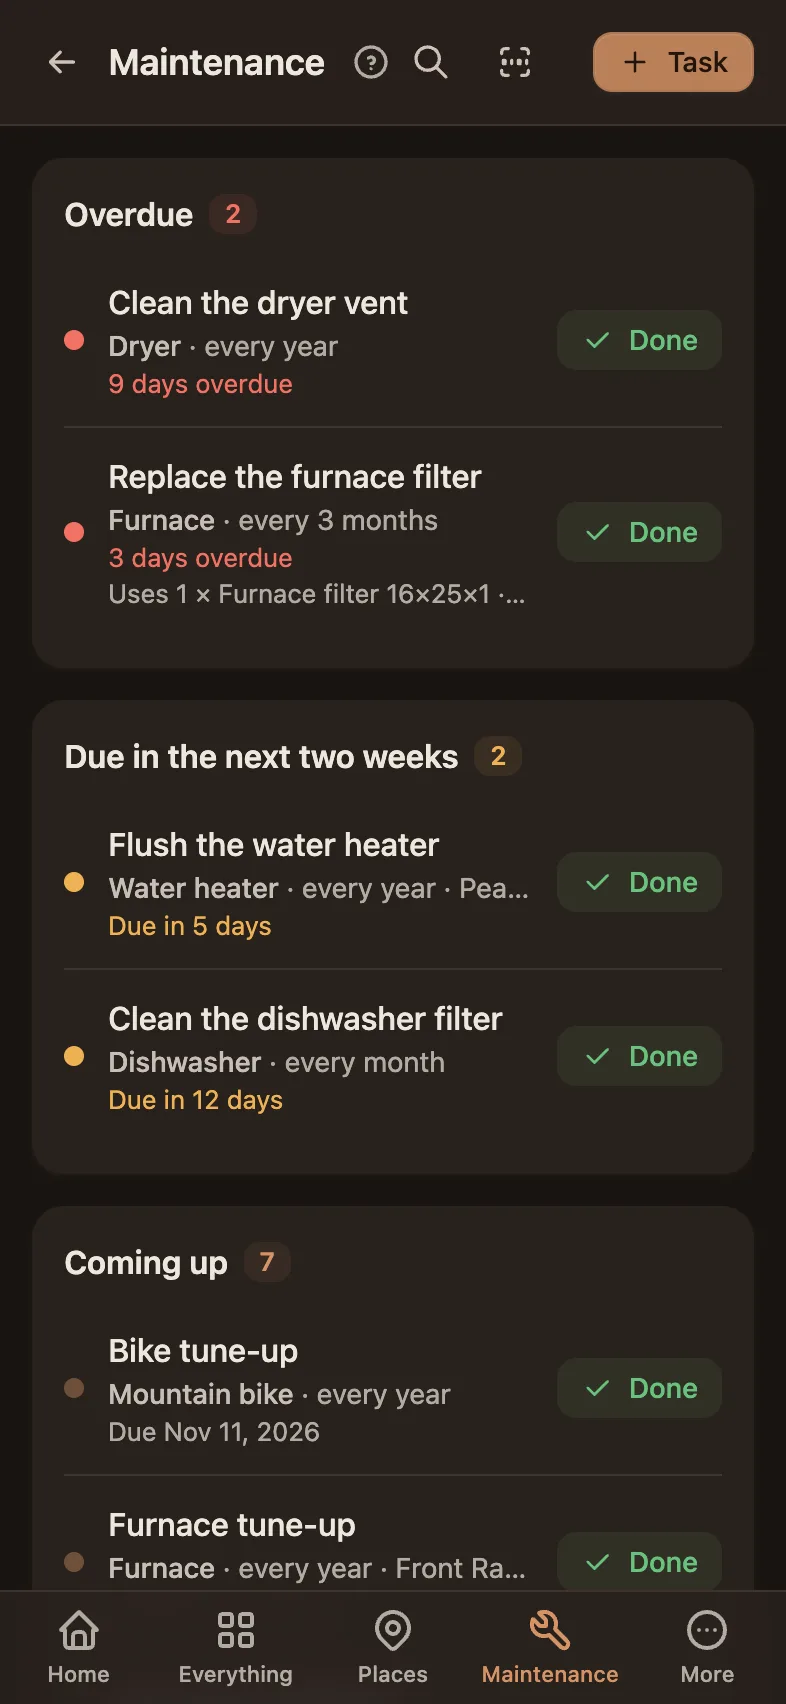
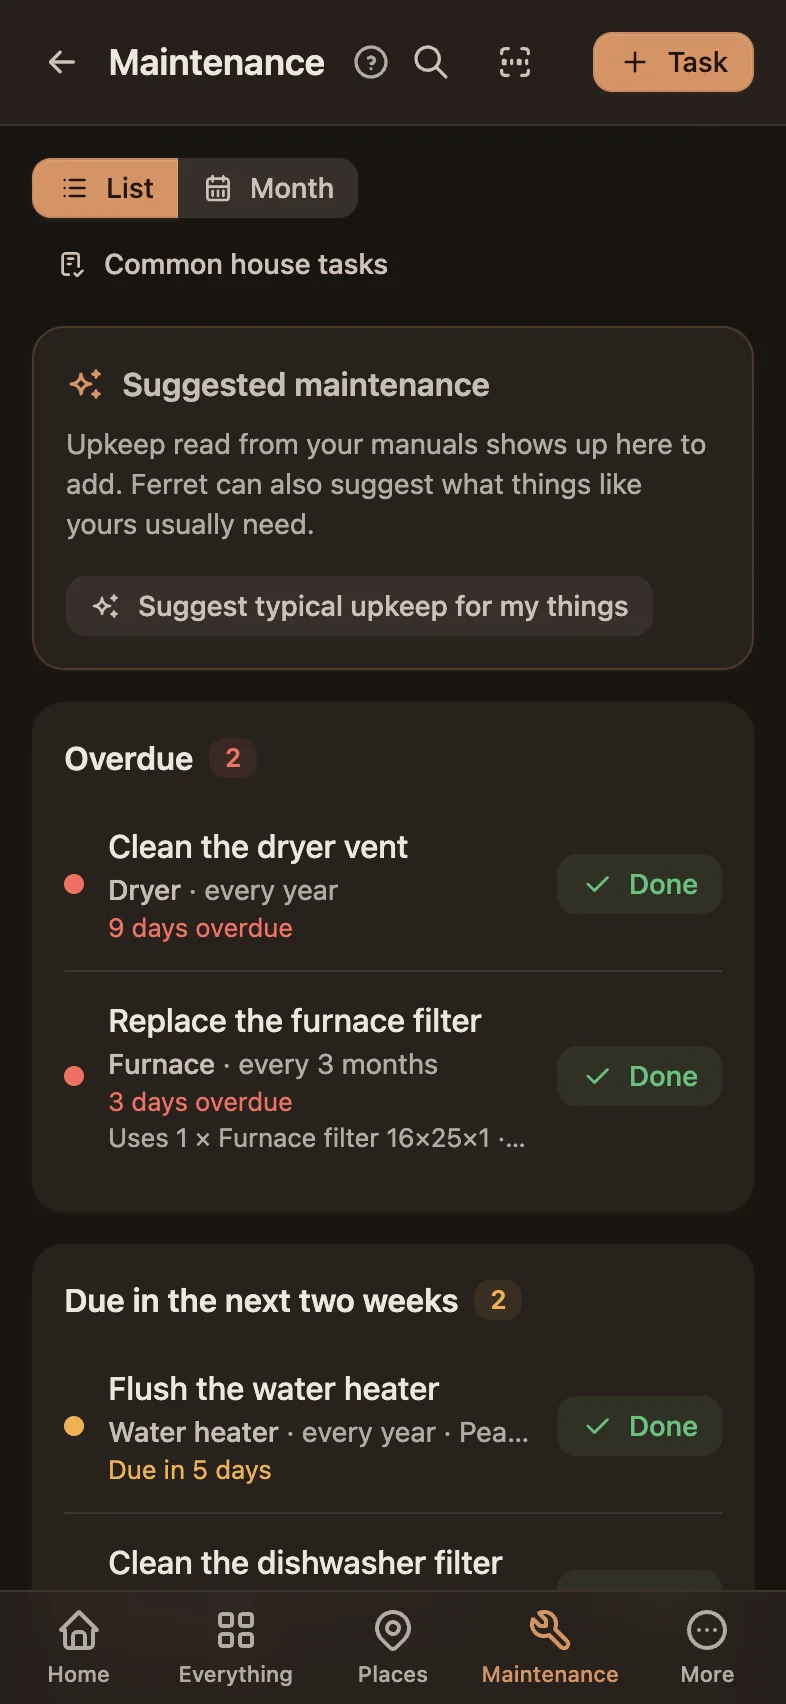
Help: the maintenance screenshot shows the List and Month switch

diff --git a/apps/docs/guide/maintenance.md b/apps/docs/guide/maintenance.md
@@ -19,8 +19,8 @@ or pick one of its places for them.
 
 ## Doing a task
 
-![Maintenance: what's due in the next two weeks and what's coming up, each with Done](/screenshots/maintenance-light.webp){.shot .light-only}
-![Maintenance: what's due in the next two weeks and what's coming up, each with Done](/screenshots/maintenance-dark.webp){.shot .dark-only}
+![Maintenance as a list (or a month): what's overdue, what's due in the next two weeks, each with Done](/screenshots/maintenance-light.webp){.shot .light-only}
+![Maintenance as a list (or a month): what's overdue, what's due in the next two weeks, each with Done](/screenshots/maintenance-dark.webp){.shot .dark-only}
 
 Tap **Done** when it's done: say when, who did it and what it cost. The next due date moves on from the day it was
 actually done — so a job done late doesn't come due again too soon. A one-off is finished once it's done.
